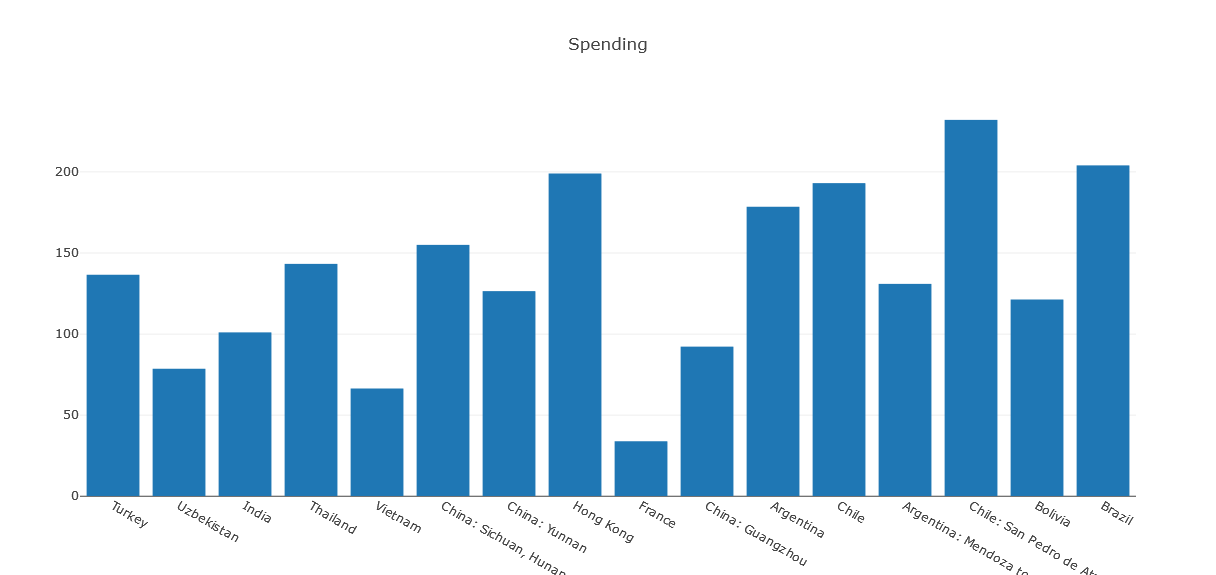
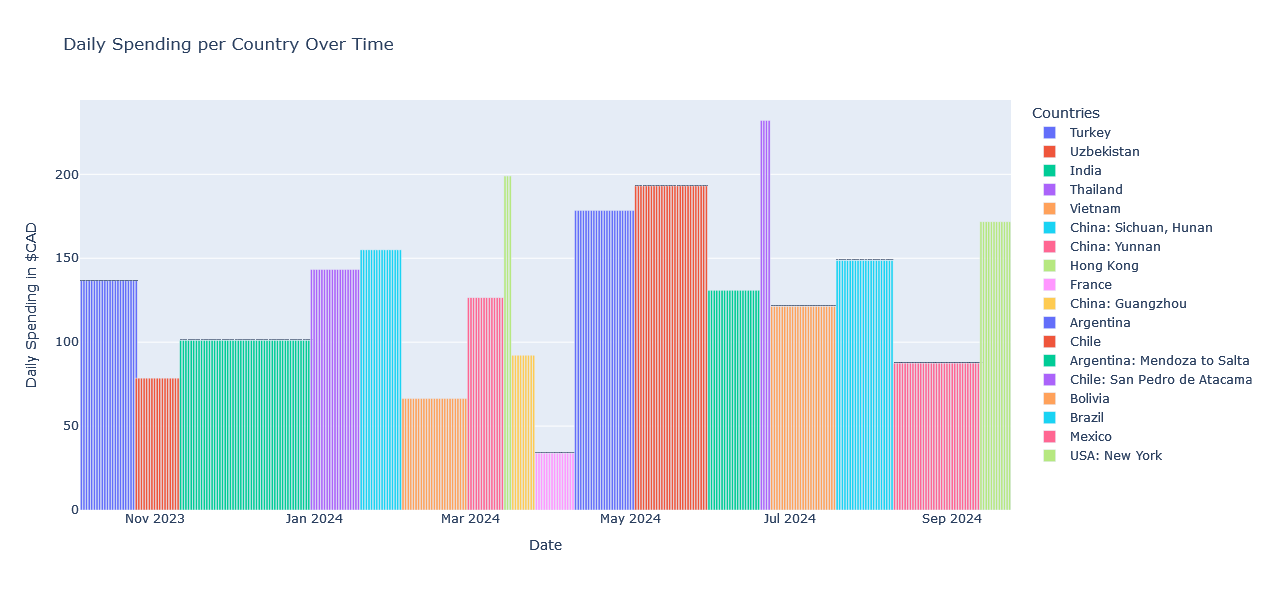
Generate a nicer graph

diff --git a/backend/en_cavale/spending/spending.py b/backend/en_cavale/spending/spending.py
@@ -3,6 +3,7 @@ import re
 import psycopg
 from config import load_config
 import plotly.express as px
+import plotly.graph_objects as go
 import pandas as pd
 from en_cavale import db
 from en_cavale.models import Country, Spending
@@ -35,6 +36,7 @@ def get_spending_by_country(session):
     """
     Calculate average daily spending per country
     """
+    res = {}
     countries = session.query(Country).all()
 
     spendingPerDay = defaultdict(float)
@@ -64,15 +66,52 @@ def get_spending_by_country(session):
                 2 if overlapping.get(day) else 1
             )
 
-        spendingPerCountry[country_name] /= delta_day
+        res[country_name] = {
+            "spending": spendingPerCountry[country_name] / delta_day,
+            "arrival": country.arrival,
+            "departure": country.departure,
+        }
 
-    return spendingPerCountry
+    return res
 
 
 def draw_graph(spendingPerCountryPerDay):
-    print("draw graph")
     df = pd.DataFrame(data=spendingPerCountryPerDay)
-    fig = px.bar(df, x="country", y="spending")
+
+    # Convert arrival and departure columns to datetime
+    df["arrival"] = pd.to_datetime(df["arrival"])
+    df["departure"] = pd.to_datetime(df["departure"])
+
+    # Calculate the number of days spent in each country
+    # df["days_spent"] = (df["departure"] - df["arrival"]).dt.days - 1
+
+    fig = go.Figure()
+
+    # Create a bar for each day in each country
+    for _, row in df.iterrows():
+        date_range = pd.date_range(start=row["arrival"], end=row["departure"])
+        daily_spending = row["spending"]
+        fig.add_trace(
+            go.Bar(
+                x=date_range,
+                y=[daily_spending] * len(date_range),
+                name=row["country"],
+                text=[row["country"]] * len(date_range),
+                hovertemplate="%{text}<br>Date: %{x}<br>Daily Spending: %{y:.2f} $CAD",
+            )
+        )
+
+    # Update layout to improve visualization
+    fig.update_layout(
+        title="Daily Spending per Country Over Time",
+        xaxis_title="Date",
+        yaxis_title="Daily Spending in $CAD",
+        barmode="overlay",
+        legend_title="Countries",
+        # hovermode="x unified",
+        hovermode="closest",
+    )
+
     fig.show()
 
 
@@ -83,6 +122,14 @@ def draw_graph(spendingPerCountryPerDay):
 def start():
     spending = get_spending_by_country()
 
-    # This representation does not indicate how much time we spent in each country.
-    d = {"country": spending.keys(), "spending": spending.values()}
+    spending_list = [data["spending"] for data in spending.values()]
+    arrival = [data["arrival"] for data in spending.values()]
+    departure = [data["departure"] for data in spending.values()]
+
+    d = {
+        "country": spending.keys(),
+        "spending": spending_list,
+        "arrival": arrival,
+        "departure": departure,
+    }
     draw_graph(d)

diff --git a/backend/en_cavale/run_flask_shell.py b/backend/en_cavale/run_flask_shell.py
@@ -1,0 +1,25 @@
+import os
+import subprocess
+import sys
+
+# Set the Flask app
+os.environ["FLASK_APP"] = "en_cavale/__init__.py"
+
+# Start Flask shell
+process = subprocess.Popen(
+    [sys.executable, "-m", "flask", "shell"],
+    stdin=subprocess.PIPE,
+    stdout=subprocess.PIPE,
+    stderr=subprocess.PIPE,
+    text=True,
+)
+
+# Command to run in Flask shell
+command = "from en_cavale.spending.spending import start; start()\n"
+
+# Send the command to the Flask shell
+stdout, stderr = process.communicate(input=command)
+
+# Print output
+print(stdout)
+print(stderr, file=sys.stderr)

diff --git a/backend/en_cavale/spending/routes.py b/backend/en_cavale/spending/routes.py
@@ -11,8 +11,9 @@ def hello_world():
 @bp.route("/countries/")
 def spending_data():
     spending = get_spending_by_country()
+    spending_list = [data["spending"] for data in spending.values()]
 
     # This representation does not indicate how much time we spent in each country.
-    d = {"country": list(spending.keys()), "spending": list(spending.values())}
+    d = {"country": list(spending.keys()), "spending": spending_list}
     print(d)
     return json.dumps(d, indent=4)
